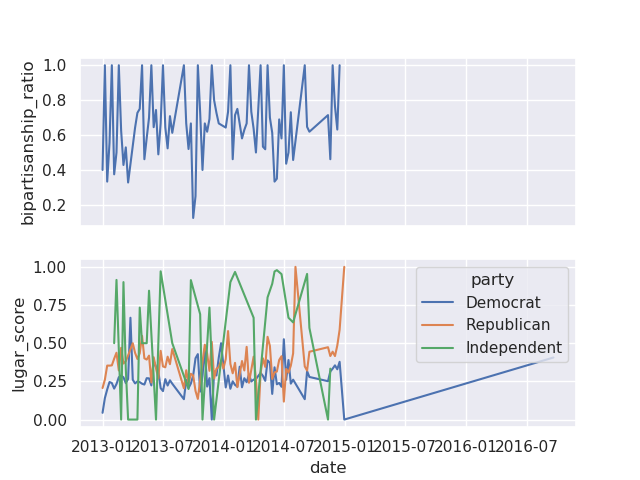
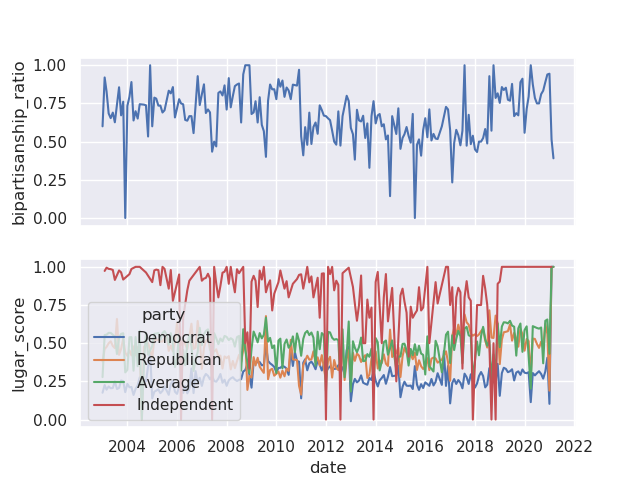
Added yearly metrics and more

diff --git a/bipartisan_metrics.py b/bipartisan_metrics.py
@@ -50,7 +50,7 @@ def lugar_metric(session, time_range, parties, t_id=None):
     #Formatted [range, party, metric]
     lugar_in_range = []
     for p in parties:
-        print(f'party: {p}')
+        #print(f'party: {p}')
         
         party_bills = party_primary_sponsor_bills(session, p)
         #Get bills sponsored by party within given time range
@@ -76,6 +76,11 @@ def lugar_metric(session, time_range, parties, t_id=None):
         if p_only_count > num_sponsors:
             print("PROBLEM")
         lugar_in_range.append([time_range[0], p, (num_sponsors - p_only_count)/num_sponsors])
+
+    if len(lugar_in_range) != 0:
+        average_score = sum([l[2] for l in lugar_in_range])/len(lugar_in_range)
+        lugar_in_range.append([time_range[0], 'Average', average_score])
+
 
     return lugar_in_range
 
@@ -154,12 +159,13 @@ def bipartisan_vote_metric(session, cutoff, time_range, parties, topic_id=None):
             
             #NOTE: EOF found in one of the parties, unknown reason
             if total_votes == 0:
+                print('no pol votes found in vote')
                 continue
 
             support_ratio = support_votes/total_votes
             vote_info[p] = support_ratio
         
-        if maxDiff(list(vote_info.values())) < cutoff or min(vote_info.values()) >= 0.5:
+        if maxDiff(list(vote_info.values())) < cutoff or min(vote_info.values()) >= 0.5 or max(vote_info.values()) <= 0.5:
             num_bipartisan_votes += 1
         num_votes += 1
         print(f'Completed vote in range: {num_votes}/{total_votes_len}')
@@ -202,21 +208,21 @@ def metrics_over_range(session, db_location, topic_name, time_ranges, parties, c
     vote_metrics = []
     range_ind = 0
     for t_range in time_ranges:
-        #vote_metrics.append([t_range[0], bipartisan_vote_metric(session, cutoff, t_range, parties, t_id)])
-        lugar_metrics.extend(lugar_metric(session, t_range, parties, t_id))
+        vote_metrics.append([t_range[0], bipartisan_vote_metric(session, cutoff, t_range, parties, t_id)])
+        #lugar_metrics.extend(lugar_metric(session, t_range, parties, t_id))
 
         range_ind += 1
-        print(f"Completed range: {range_ind}/{len(time_ranges)}")
+        print(f"Completed range for {t_id}: {range_ind}/{len(time_ranges)}")
 
     #TODO:Save topic information
     
     print(f"Saving metrics for {topic_name}")
 
-    lugar_df = pd.DataFrame(lugar_metrics, columns=['date', 'party', 'lugar'])
-    lugar_df.to_csv(save_location + f"lugar_metric_{t_id}.csv")
+    #lugar_df = pd.DataFrame(lugar_metrics, columns=['date', 'party', 'lugar'])
+    #lugar_df.to_csv(save_location + f"lugar_metric_{t_id}.csv")
 
-    #vote_metrics_df = pd.DataFrame(vote_metrics, columns=['date', 'vote_metric'])
-    #vote_metrics_df.to_csv(save_location + f"vote_metric_{t_id}.csv")
+    vote_metrics_df = pd.DataFrame(vote_metrics, columns=['date', 'vote_metric'])
+    vote_metrics_df.to_csv(save_location + f"vote_metric_{t_id}.csv")
     
     return [topic_name, vote_metrics, lugar_metrics]
 
@@ -227,7 +233,6 @@ if __name__ == "__main__":
 
     db_location = sys.argv[1]
 
-
     import seaborn as sns
     import matplotlib.pyplot as plt
     sns.set_theme(style="darkgrid")
@@ -236,55 +241,55 @@ if __name__ == "__main__":
     dates = get_bill_state_date_ranges(session)
     week_ranges = util.discretized_by_weeks(*dates)
     month_ranges = util.discretized_by_months(*dates)
+    year_ranges = util.discretized_by_years(*dates)
     chosen_range = month_ranges
+
+    print(year_ranges)
 
     vote_cutoff = 0.2
 
     all_lugars = []
-    parties = ["Democrat", "Independent", "Republican"]
+    parties = ["Democrat", "Republican"]
 
-    # vote_metrics = []
-    # for r in chosen_range:
-    #     metric = bipartisan_vote_metric(session, vote_cutoff, r, ['Democrat', 'Republican'])
-    #     if metric is not None:
-    #         vote_metrics.append([r[0], metric])
+    vote_metrics = []
+    for r in chosen_range:
+        metric = bipartisan_vote_metric(session, vote_cutoff, r, parties)
+        if metric is not None:
+            vote_metrics.append([r[0], metric])
 
-    # vote_metrics_df = pd.DataFrame(vote_metrics, columns=['date', 'bipartisanship_ratio'])
-    # vote_metrics_df.to_csv('bipartisanship_results/vote_metrics.csv', index=False)
+    vote_metrics_df = pd.DataFrame(vote_metrics, columns=['date', 'bipartisanship_ratio'])
+    vote_metrics_df.to_csv('bipartisanship_results/vote_metrics_monthly.csv', index=False)
 
+    i = 1
+    num_ranges = len(chosen_range)
+    for r in chosen_range:
+        range_lugar = lugar_metric(session, r, parties)
+        all_lugars.extend(range_lugar)
+        print(f"{i}/{num_ranges}")
+        i += 1
 
-    # i = 1
-    # num_ranges = len(chosen_range)
-    # for r in chosen_range:
-    #     if i > 1:
-    #         break
-    #     range_lugar = lugar_metric(session, r, parties)
-    #     all_lugars.extend(range_lugar)
-    #     print(f"{i}/{num_ranges}")
-    #     i += 1
+    lugar_df = pd.DataFrame(all_lugars, columns=['date', 'party', 'lugar_score'])
+    lugar_df.to_csv('bipartisanship_results/lugar_metrics_monthly.csv', index=False)
 
-    # lugar_df = pd.DataFrame(all_lugars, columns=['date', 'party', 'lugar_score'])
-    # lugar_df.to_csv('bipartisanship_results/lugar_metrics.csv', index=False)
-
-    # fix, axarr = plt.subplots(2, sharex=True)
-    # sns.lineplot(x='date', y='bipartisanship_ratio', data=vote_metrics_df, ax=axarr[0])
-    # sns.lineplot(x='date', y="lugar_score", hue="party", data=lugar_df, ax=axarr[1])
+    fix, axarr = plt.subplots(2, sharex=True)
+    sns.lineplot(x='date', y='bipartisanship_ratio', data=vote_metrics_df, ax=axarr[0])
+    sns.lineplot(x='date', y="lugar_score", hue="party", data=lugar_df, ax=axarr[1])
     
-    # figure = fix.get_figure()
-    # #fix.savefig("figure_name" + "_score" ".png")
+    figure = fix.get_figure()
+    fix.savefig("metrics" + "_score" + "_monthly" + ".png")
 
-    topics_to_check = [('Health', 288),
-        ('Health_care_coverage_and_access', 64),
-        ('Health_care_costs_and_insurance', 245),
-        ('Armed_forces_and_national_security', 1),
-        ('Military_personnel_and_dependents', 99),
-        ('International_affairs', 49),
-        ('Higher_education', 360),
-        ('Education', 92),
-        ('Education_programs_funding', 93),
-        ('Elementary_and_secondary_education', 94),
-        ('Student_aid_and_colleg_ costs', 335),
-        ('Crime_and_law_enforcement', 311),
-        ('Taxation', 130)]
+    # topics_to_check = [('Health', 288),
+    #     ('Health_care_coverage_and_access', 64),
+    #     ('Health_care_costs_and_insurance', 245),
+    #     ('Armed_forces_and_national_security', 1),
+    #     ('Military_personnel_and_dependents', 99),
+    #     ('International_affairs', 49),
+    #     ('Higher_education', 360),
+    #     ('Education', 92),
+    #     ('Education_programs_funding', 93),
+    #     ('Elementary_and_secondary_education', 94),
+    #     ('Student_aid_and_colleg_ costs', 335),
+    #     ('Crime_and_law_enforcement', 311),
+    #     ('Taxation', 130)]
 
-    topic_results = get_all_topic_metrics(chosen_range, parties, vote_cutoff, db_location, topics_to_check)
+    # topic_results = get_all_topic_metrics(chosen_range, parties, vote_cutoff, db_location, topics_to_check)

diff --git a/util.py b/util.py
@@ -73,6 +73,28 @@ def discretized_by_weeks(earliest, latest):
     return discretizations
 
 
+def discretized_by_years(earliest, latest):
+
+    [first_month, first_year] = [earliest.month, earliest.year]
+    [last_month, last_year] = [latest.month, latest.year]
+    _ , last_day = calendar.monthrange(last_year, 12)
+
+    cur_year = first_year
+
+    discretizations = []
+
+    while cur_year < last_year:
+
+        year_start = datetime.date(cur_year,1,1)
+        year_end = datetime.date(cur_year,12,31)
+
+        discretizations.append([year_start, year_end])
+
+        cur_year += 1
+
+    return discretizations
+
+
 
 def get_count(q):
     count_q = q.statement.with_only_columns([func.count()]).order_by(None)
